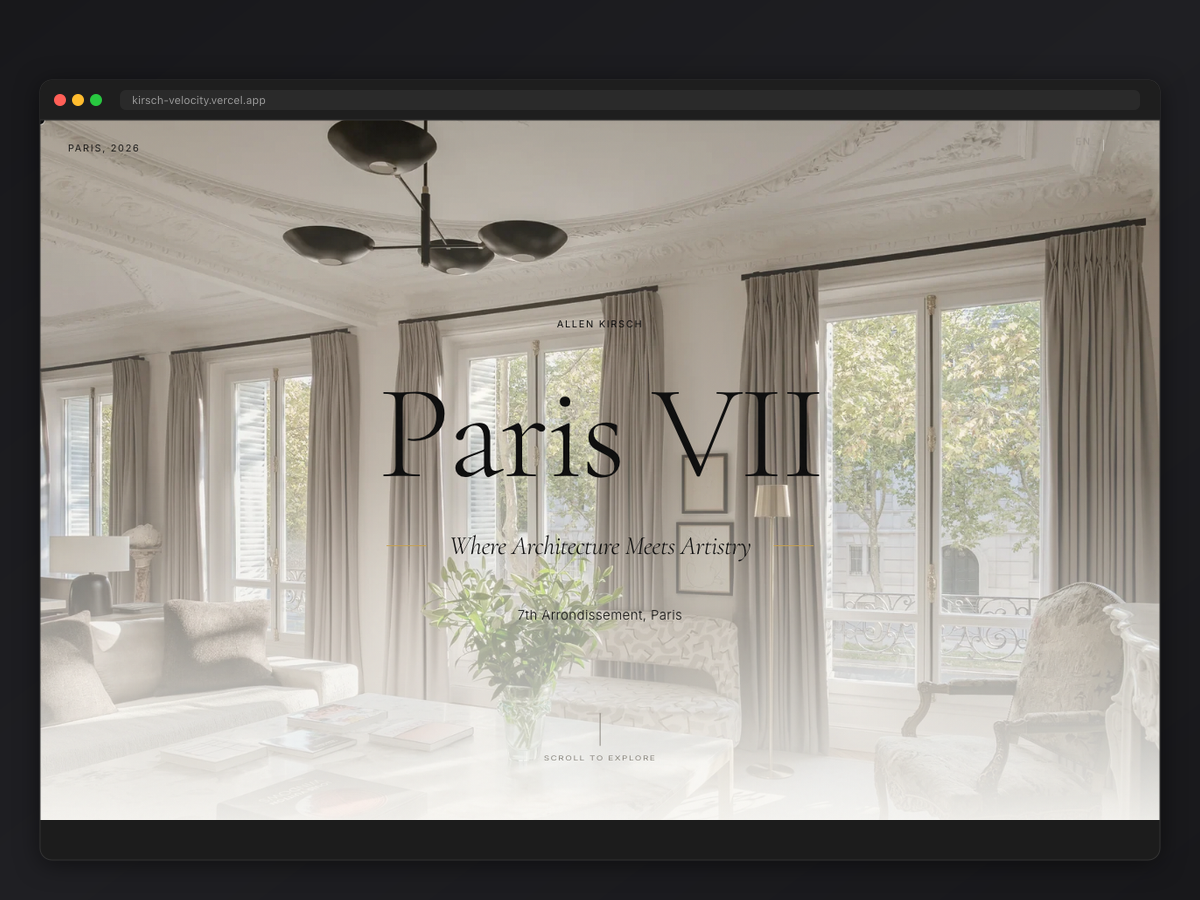
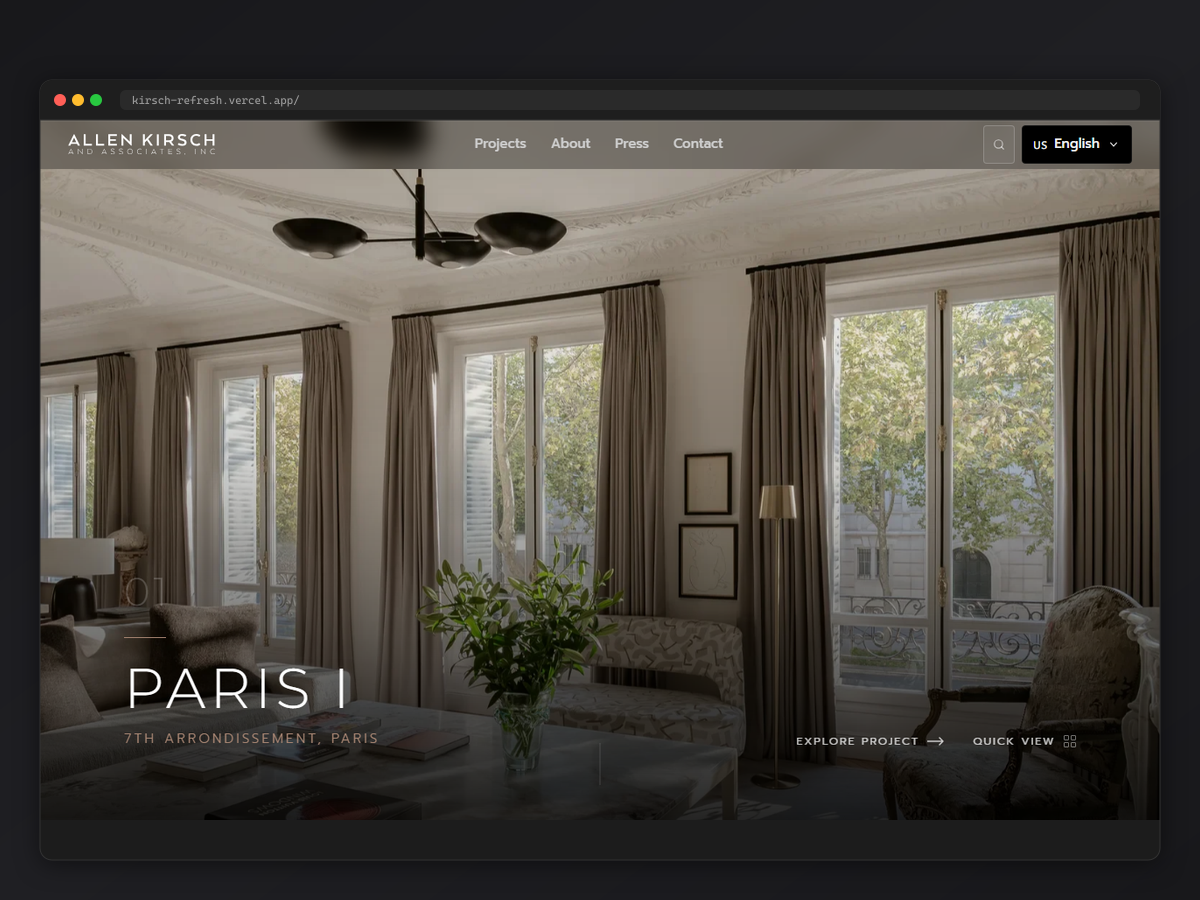
Update Kirsch showcase URL to kirsch-refresh and regenerate thumbnail

diff --git a/src/components/marketing/Showcase.tsx b/src/components/marketing/Showcase.tsx
@@ -53,7 +53,7 @@ const SHOWCASE_ITEMS: ShowcaseItem[] = [
   {
     slug: 'kirsch-velocity',
     name: 'Kirsch',
-    url: 'https://kirsch-velocity.vercel.app',
+    url: 'https://kirsch-refresh.vercel.app/',
     category: 'Luxury Real Estate',
     accent: '#c4a265',
   },
